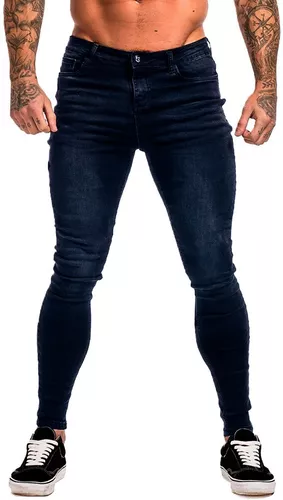
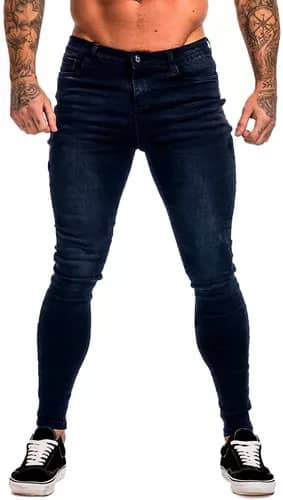
se achicaron el tamaño de las fotos

diff --git a/page/ropa-femenina.html b/page/ropa-femenina.html
@@ -21,10 +21,10 @@
 <body>
   <header class="navbar navbar-expand-lg fijo navbar-dark">
     <div class="container-fluid">
-      <a class="navbar-brand d-flex justify-content-end align-items-center">
+      <div class="navbar-brand d-flex justify-content-end align-items-center">
         <img class="logoWeb" src="../img/logo-web.png" alt="logo de la web">
         <h1>estilo para ellas</h1>
-      </a>
+      </div>
       <button class="navbar-toggler" type="button" data-bs-toggle="collapse" data-bs-target="#navbarNav"
         aria-controls="navbarNav" aria-expanded="false" aria-label="Toggle navigation">
         <span class="navbar-toggler-icon"></span>
@@ -74,7 +74,7 @@
             <div class="row">
               <div class="col-md-6 col-lg-3 pt-4">
                 <div class="card bordes">
-                  <img src="../img/jean1-hombre.jpg" class="imgRopa" alt="jean">
+                  <img src="../img/jean1-mujer.jpg" class="imgRopa" alt="jean">
                   <div class="card-body">
                     <p class="card-text">
                       <select class="form-select bordes" aria-label="Default select example">
@@ -94,7 +94,7 @@
 
               <div class="col-md-6 col-lg-3 pt-4">
                 <div class="card bordes">
-                  <img src="../img/jean2-hombre.jpg" class="imgRopa" alt="jean">
+                  <img src="../img/jean2-mujer.jpg" class="imgRopa" alt="jean">
                   <div class="card-body">
                     <p class="card-text">
                       <select class="form-select bordes" aria-label="Default select example">
@@ -114,7 +114,7 @@
 
               <div class="col-md-6 col-lg-3 pt-4">
                 <div class="card bordes">
-                  <img src="../img/jean3-hombre.jpg" class="imgRopa" alt="jean">
+                  <img src="../img/jean3-mujer.jpg" class="imgRopa" alt="jean">
                   <div class="card-body">
                     <p class="card-text">
                       <select class="form-select bordes" aria-label="Default select example">
@@ -134,7 +134,7 @@
 
               <div class="col-md-6 col-lg-3 pt-4">
                 <div class="card bordes">
-                  <img src="../img/jean4-hombre.jpg" class="imgRopa" alt="jean">
+                  <img src="../img/jean4-mujer.jpg" class="imgRopa" alt="jean">
                   <div class="card-body">
                     <p class="card-text">
                       <select class="form-select bordes" aria-label="Default select example">
@@ -171,7 +171,7 @@
             <div class="row">
               <div class="col-md-6 col-lg-3 pt-4">
                 <div class="card bordes">
-                  <img src="../img/buzo1-hombre.jpg" class="imgRopa" alt="jean">
+                  <img src="../img/buzo1-mujer.jpg" class="imgRopa" alt="jean">
                   <div class="card-body">
                     <p class="card-text">
                       <select class="form-select bordes" aria-label="Default select example">
@@ -191,7 +191,7 @@
 
               <div class="col-md-6 col-lg-3 pt-4">
                 <div class="card bordes">
-                  <img src="../img/buzo2-hombre.jpg" class="imgRopa" alt="jean">
+                  <img src="../img/buzo2-mujer.jpg" class="imgRopa" alt="jean">
                   <div class="card-body">
                     <p class="card-text">
                       <select class="form-select bordes" aria-label="Default select example">
@@ -211,7 +211,7 @@
 
               <div class="col-md-6 col-lg-3 pt-4">
                 <div class="card bordes">
-                  <img src="../img/buzo3-hombre.jpg" class="imgRopa" alt="jean">
+                  <img src="../img/buzo3-mujer.jpg" class="imgRopa" alt="jean">
                   <div class="card-body">
                     <p class="card-text">
                       <select class="form-select bordes" aria-label="Default select example">
@@ -231,7 +231,7 @@
 
               <div class="col-md-6 col-lg-3 pt-4">
                 <div class="card bordes">
-                  <img src="../img/buzo4-hombre.jpg" class="imgRopa" alt="jean">
+                  <img src="../img/buzo4-mujer.jpg" class="imgRopa" alt="jean">
                   <div class="card-body">
                     <p class="card-text">
                       <select class="form-select bordes" aria-label="Default select example">
@@ -267,7 +267,7 @@
             <div class="row">
               <div class="col-md-6 col-lg-3 pt-4">
                 <div class="card bordes">
-                  <img src="../img/remera1-hombre.jpg" class="imgRopa" alt="jean">
+                  <img src="../img/remera1-mujer.jpg" class="imgRopa" alt="jean">
                   <div class="card-body">
                     <p class="card-text">
                       <select class="form-select bordes" aria-label="Default select example">
@@ -287,7 +287,7 @@
 
               <div class="col-md-6 col-lg-3 pt-4">
                 <div class="card bordes">
-                  <img src="../img/remera2-hombre.jpg" class="imgRopa" alt="jean">
+                  <img src="../img/remera2-mujer.jpg" class="imgRopa" alt="jean">
                   <div class="card-body">
                     <p class="card-text">
                       <select class="form-select bordes" aria-label="Default select example">
@@ -307,7 +307,7 @@
 
               <div class="col-md-6 col-lg-3 pt-4">
                 <div class="card bordes">
-                  <img src="../img/remera3-hombre.jpg" class="imgRopa" alt="jean">
+                  <img src="../img/remera3-mujer.jpg" class="imgRopa" alt="jean">
                   <div class="card-body">
                     <p class="card-text">
                       <select class="form-select bordes" aria-label="Default select example">
@@ -327,7 +327,7 @@
 
               <div class="col-md-6 col-lg-3 pt-4">
                 <div class="card bordes">
-                  <img src="../img/remera4-hombre.jpg" class="imgRopa" alt="jean">
+                  <img src="../img/remera4-mujer.jpg" class="imgRopa" alt="jean">
                   <div class="card-body">
                     <p class="card-text">
                       <select class="form-select bordes" aria-label="Default select example">
@@ -383,17 +383,17 @@
       </div>
 
       <ul class="nav col-md-6 justify-content-end list-unstyled d-flex">
-        <li class="ms-3"><a class="redes" target="_blank" href="https://www.instagram.com/"><i
+        <li class="ms-3"><a class="redes" target="_blank" href="https://www.instagram.com/" alt="logo instagram"><i
               class="bi bi-instagram"></i><svg class="bi" width="24" height="24">
-              <use xlink:href="#instagram" alt="logo instagram" />
+              <use xlink:href="#instagram"/>
             </svg></a></li>
-        <li class="ms-3"><a class="redes" target="_blank" href="https://web.whatsapp.com/"><i
+        <li class="ms-3"><a class="redes" target="_blank" href="https://web.whatsapp.com/" alt="logo whatsapp"><i
               class="bi bi-whatsapp"></i><svg class="bi" width="24" height="24">
-              <use xlink:href="#whatsapp" alt="logo whatsapp" />
+              <use xlink:href="#whatsapp"/>
             </svg></a></li>
-        <li class="ms-3"><a class="redes" target="_blank" href="https://www.facebook.com/?locale=es_LA"><i
+        <li class="ms-3"><a class="redes" target="_blank" href="https://www.facebook.com/?locale=es_LA" alt="logo facebook" ><i
               class="bi bi-facebook"></i><svg class="bi" width="24" height="24">
-              <use xlink:href="#facebook" alt="logo facebook" />
+              <use xlink:href="#facebook"/>
             </svg></a></li>
       </ul>
     </footer>

diff --git a/page/envios.html b/page/envios.html
@@ -21,10 +21,10 @@
 <body>
     <header class="navbar navbar-expand-lg fijo navbar-dark">
         <div class="container-fluid">
-            <a class="navbar-brand d-flex justify-content-end align-items-center">
+            <div class="navbar-brand d-flex justify-content-end align-items-center">
                 <img class="logoWeb" src="../img/logo-web.png" alt="logo de la web">
                 <h1>formulario de envíos</h1>
-            </a>
+            </div>
             <button class="navbar-toggler" type="button" data-bs-toggle="collapse" data-bs-target="#navbarNav"
                 aria-controls="navbarNav" aria-expanded="false" aria-label="Toggle navigation">
                 <span class="navbar-toggler-icon"></span>
@@ -105,17 +105,17 @@
             </div>
 
             <ul class="nav col-md-6 justify-content-end list-unstyled d-flex">
-                <li class="ms-3"><a class="redes" target="_blank" href="https://www.instagram.com/"><i
+                <li class="ms-3"><a class="redes" target="_blank" href="https://www.instagram.com/" alt="logo de instagram"><i
                             class="bi bi-instagram"></i><svg class="bi" width="24" height="24">
-                            <use xlink:href="#instagram" alt="logo de instagram"/>
+                            <use xlink:href="#instagram"/>
                         </svg></a></li>
-                <li class="ms-3"><a class="redes" target="_blank" href="https://web.whatsapp.com/"><i
+                <li class="ms-3"><a class="redes" target="_blank" href="https://web.whatsapp.com/" alt="logo de whatsapp"><i
                             class="bi bi-whatsapp"></i><svg class="bi" width="24" height="24">
-                            <use xlink:href="#whatsapp" alt="logo de whatsapp"/>
+                            <use xlink:href="#whatsapp"/>
                         </svg></a></li>
-                <li class="ms-3"><a class="redes" target="_blank" href="https://www.facebook.com/?locale=es_LA"><i
+                <li class="ms-3"><a class="redes" target="_blank" href="https://www.facebook.com/?locale=es_LA" alt="logo de facebook"><i
                             class="bi bi-facebook"></i><svg class="bi" width="24" height="24">
-                            <use xlink:href="#facebook" alt="logo de facebook" />
+                            <use xlink:href="#facebook"/>
                         </svg></a></li>
             </ul>
         </footer>

diff --git a/page/sucursales.html b/page/sucursales.html
@@ -21,10 +21,10 @@
 <body>
     <header class="navbar navbar-expand-lg fijo navbar-dark">
         <div class="container-fluid">
-            <a class="navbar-brand d-flex justify-content-end align-items-center">
+            <div class="navbar-brand d-flex justify-content-end align-items-center">
                 <img class="logoWeb" src="../img/logo-web.png" alt="logo de la web">
                 <h1>nuestras sucursales</h1>
-            </a>
+            </div>
             <button class="navbar-toggler" type="button" data-bs-toggle="collapse" data-bs-target="#navbarNav"
                 aria-controls="navbarNav" aria-expanded="false" aria-label="Toggle navigation">
                 <span class="navbar-toggler-icon"></span>
@@ -136,17 +136,17 @@
             </div>
 
             <ul class="nav col-md-6 justify-content-end list-unstyled d-flex">
-                <li class="ms-3"><a class="redes" target="_blank" href="https://www.instagram.com/"><i
+                <li class="ms-3"><a class="redes" target="_blank" href="https://www.instagram.com/" alt="logo instagram"><i
                             class="bi bi-instagram"></i><svg class="bi" width="24" height="24">
-                            <use xlink:href="#instagram" alt="logo instagram" />
+                            <use xlink:href="#instagram"/>
                         </svg></a></li>
-                <li class="ms-3"><a class="redes" target="_blank" href="https://web.whatsapp.com/"><i
+                <li class="ms-3"><a class="redes" target="_blank" href="https://web.whatsapp.com/" alt="logo whatsapp"><i
                             class="bi bi-whatsapp"></i><svg class="bi" width="24" height="24">
-                            <use xlink:href="#whatsapp" alt="logo whatsapp" />
+                            <use xlink:href="#whatsapp"/>
                         </svg></a></li>
-                <li class="ms-3"><a class="redes" target="_blank" href="https://www.facebook.com/?locale=es_LA"><i
+                <li class="ms-3"><a class="redes" target="_blank" href="https://www.facebook.com/?locale=es_LA" alt="logo facebook"><i
                             class="bi bi-facebook"></i><svg class="bi" width="24" height="24">
-                            <use xlink:href="#facebook" alt="logo facebook"/>
+                            <use xlink:href="#facebook"/>
                         </svg></a></li>
             </ul>
         </footer>

diff --git a/page/ropa-masculina.html b/page/ropa-masculina.html
@@ -21,10 +21,10 @@
 <body>
     <header class="navbar navbar-expand-lg fijo navbar-dark">
         <div class="container-fluid">
-            <a class="navbar-brand d-flex justify-content-end align-items-center">
+            <div class="navbar-brand d-flex justify-content-end align-items-center">
                 <img class="logoWeb" src="../img/logo-web.png" alt="logo de la web">
                 <h1>estilo para ellos</h1>
-            </a>
+            </div>
             <button class="navbar-toggler" type="button" data-bs-toggle="collapse" data-bs-target="#navbarNav"
                 aria-controls="navbarNav" aria-expanded="false" aria-label="Toggle navigation">
                 <span class="navbar-toggler-icon"></span>
@@ -391,17 +391,17 @@
             </div>
 
             <ul class="nav col-md-6 justify-content-end list-unstyled d-flex">
-                <li class="ms-3"><a class="redes" target="_blank" href="https://www.instagram.com/"><i
+                <li class="ms-3"><a class="redes" target="_blank" href="https://www.instagram.com/" alt="logo instagram"><i
                             class="bi bi-instagram"></i><svg class="bi" width="24" height="24">
-                            <use xlink:href="#instagram" alt="logo instagram" />
+                            <use xlink:href="#instagram"/>
                         </svg></a></li>
-                <li class="ms-3"><a class="redes" target="_blank" href="https://web.whatsapp.com/"><i
+                <li class="ms-3"><a class="redes" target="_blank" href="https://web.whatsapp.com/" alt="logo whatsapp"><i
                             class="bi bi-whatsapp"></i><svg class="bi" width="24" height="24">
-                            <use xlink:href="#whatsapp" alt="logo whatsapp" />
+                            <use xlink:href="#whatsapp"/>
                         </svg></a></li>
-                <li class="ms-3"><a class="redes" target="_blank" href="https://www.facebook.com/?locale=es_LA"><i
+                <li class="ms-3"><a class="redes" target="_blank" href="https://www.facebook.com/?locale=es_LA" alt="logo facebook"><i
                             class="bi bi-facebook"></i><svg class="bi" width="24" height="24">
-                            <use xlink:href="#facebook" alt="logo facebook" />
+                            <use xlink:href="#facebook"/>
                         </svg></a></li>
             </ul>
         </footer>

diff --git a/index.html b/index.html
@@ -64,17 +64,17 @@
             </div>
 
             <ul class="nav col-md-6 justify-content-end list-unstyled d-flex">
-                <li class="ms-3"><a class="redes" target="_blank" href="https://www.instagram.com/"><i
+                <li class="ms-3"><a class="redes" target="_blank" href="https://www.instagram.com/" alt="logo de instagram"><i
                             class="bi bi-instagram"></i><svg class="bi" width="24" height="24">
-                            <use xlink:href="#instagram" alt="logo de instagram"/>
+                            <use xlink:href="#instagram"/>
                         </svg></a></li>
-                <li class="ms-3"><a class="redes" target="_blank" href="https://web.whatsapp.com/"><i
+                <li class="ms-3"><a class="redes" target="_blank" href="https://web.whatsapp.com/" alt="logo de whatsapp"><i
                             class="bi bi-whatsapp"></i><svg class="bi" width="24" height="24">
-                            <use xlink:href="#whatsapp" alt="logo de whatsapp"/>
+                            <use xlink:href="#whatsapp"/>
                         </svg></a></li>
-                <li class="ms-3"><a class="redes" target="_blank" href="https://www.facebook.com/?locale=es_LA"><i
+                <li class="ms-3"><a class="redes" target="_blank" href="https://www.facebook.com/?locale=es_LA" alt="logo de facebook"><i
                             class="bi bi-facebook"></i><svg class="bi" width="24" height="24">
-                            <use xlink:href="#facebook" alt="logo de facebook" />
+                            <use xlink:href="#facebook"/>
                         </svg></a></li>
             </ul>
         </footer>

diff --git a/page/contactos.html b/page/contactos.html
@@ -82,17 +82,17 @@
             </div>
 
             <ul class="nav col-md-6 justify-content-end list-unstyled d-flex">
-                <li class="ms-3"><a class="redes" target="_blank" href="https://www.instagram.com/"><i
+                <li class="ms-3"><a class="redes" target="_blank" href="https://www.instagram.com/" alt="logo de instagram"><i
                             class="bi bi-instagram"></i><svg class="bi" width="24" height="24">
-                            <use xlink:href="#instagram" alt="logo de instagram"/>
+                            <use xlink:href="#instagram"/>
                         </svg></a></li>
-                <li class="ms-3"><a class="redes" target="_blank" href="https://web.whatsapp.com/"><i
+                <li class="ms-3"><a class="redes" target="_blank" href="https://web.whatsapp.com/" alt="logo de whatsapp"><i
                             class="bi bi-whatsapp"></i><svg class="bi" width="24" height="24">
-                            <use xlink:href="#whatsapp" alt="logo de whatsapp"/>
+                            <use xlink:href="#whatsapp"/>
                         </svg></a></li>
-                <li class="ms-3"><a class="redes" target="_blank" href="https://www.facebook.com/?locale=es_LA"><i
+                <li class="ms-3"><a class="redes" target="_blank" href="https://www.facebook.com/?locale=es_LA" alt="logo de facebook"><i
                             class="bi bi-facebook"></i><svg class="bi" width="24" height="24">
-                            <use xlink:href="#facebook" alt="logo de facebook" />
+                            <use xlink:href="#facebook"/>
                         </svg></a></li>
             </ul>
         </footer>

diff --git a/page/galeria.html b/page/galeria.html
@@ -78,17 +78,17 @@
             </div>
 
             <ul class="nav col-md-6 justify-content-end list-unstyled d-flex">
-                <li class="ms-3"><a class="redes" target="_blank" href="https://www.instagram.com/"><i
+                <li class="ms-3"><a class="redes" target="_blank" href="https://www.instagram.com/" alt="logo de instagram"><i
                             class="bi bi-instagram"></i><svg class="bi" width="24" height="24">
-                            <use xlink:href="#instagram" alt="logo de instagram"/>
+                            <use xlink:href="#instagram"/>
                         </svg></a></li>
-                <li class="ms-3"><a class="redes" target="_blank" href="https://web.whatsapp.com/"><i
+                <li class="ms-3"><a class="redes" target="_blank" href="https://web.whatsapp.com/" alt="logo de whatsapp"><i
                             class="bi bi-whatsapp"></i><svg class="bi" width="24" height="24">
-                            <use xlink:href="#whatsapp" alt="logo de whatsapp"/>
+                            <use xlink:href="#whatsapp"/>
                         </svg></a></li>
-                <li class="ms-3"><a class="redes" target="_blank" href="https://www.facebook.com/?locale=es_LA"><i
+                <li class="ms-3"><a class="redes" target="_blank" href="https://www.facebook.com/?locale=es_LA" alt="logo de facebook"><i
                             class="bi bi-facebook"></i><svg class="bi" width="24" height="24">
-                            <use xlink:href="#facebook" alt="logo de facebook" />
+                            <use xlink:href="#facebook"/>
                         </svg></a></li>
             </ul>
         </footer>
